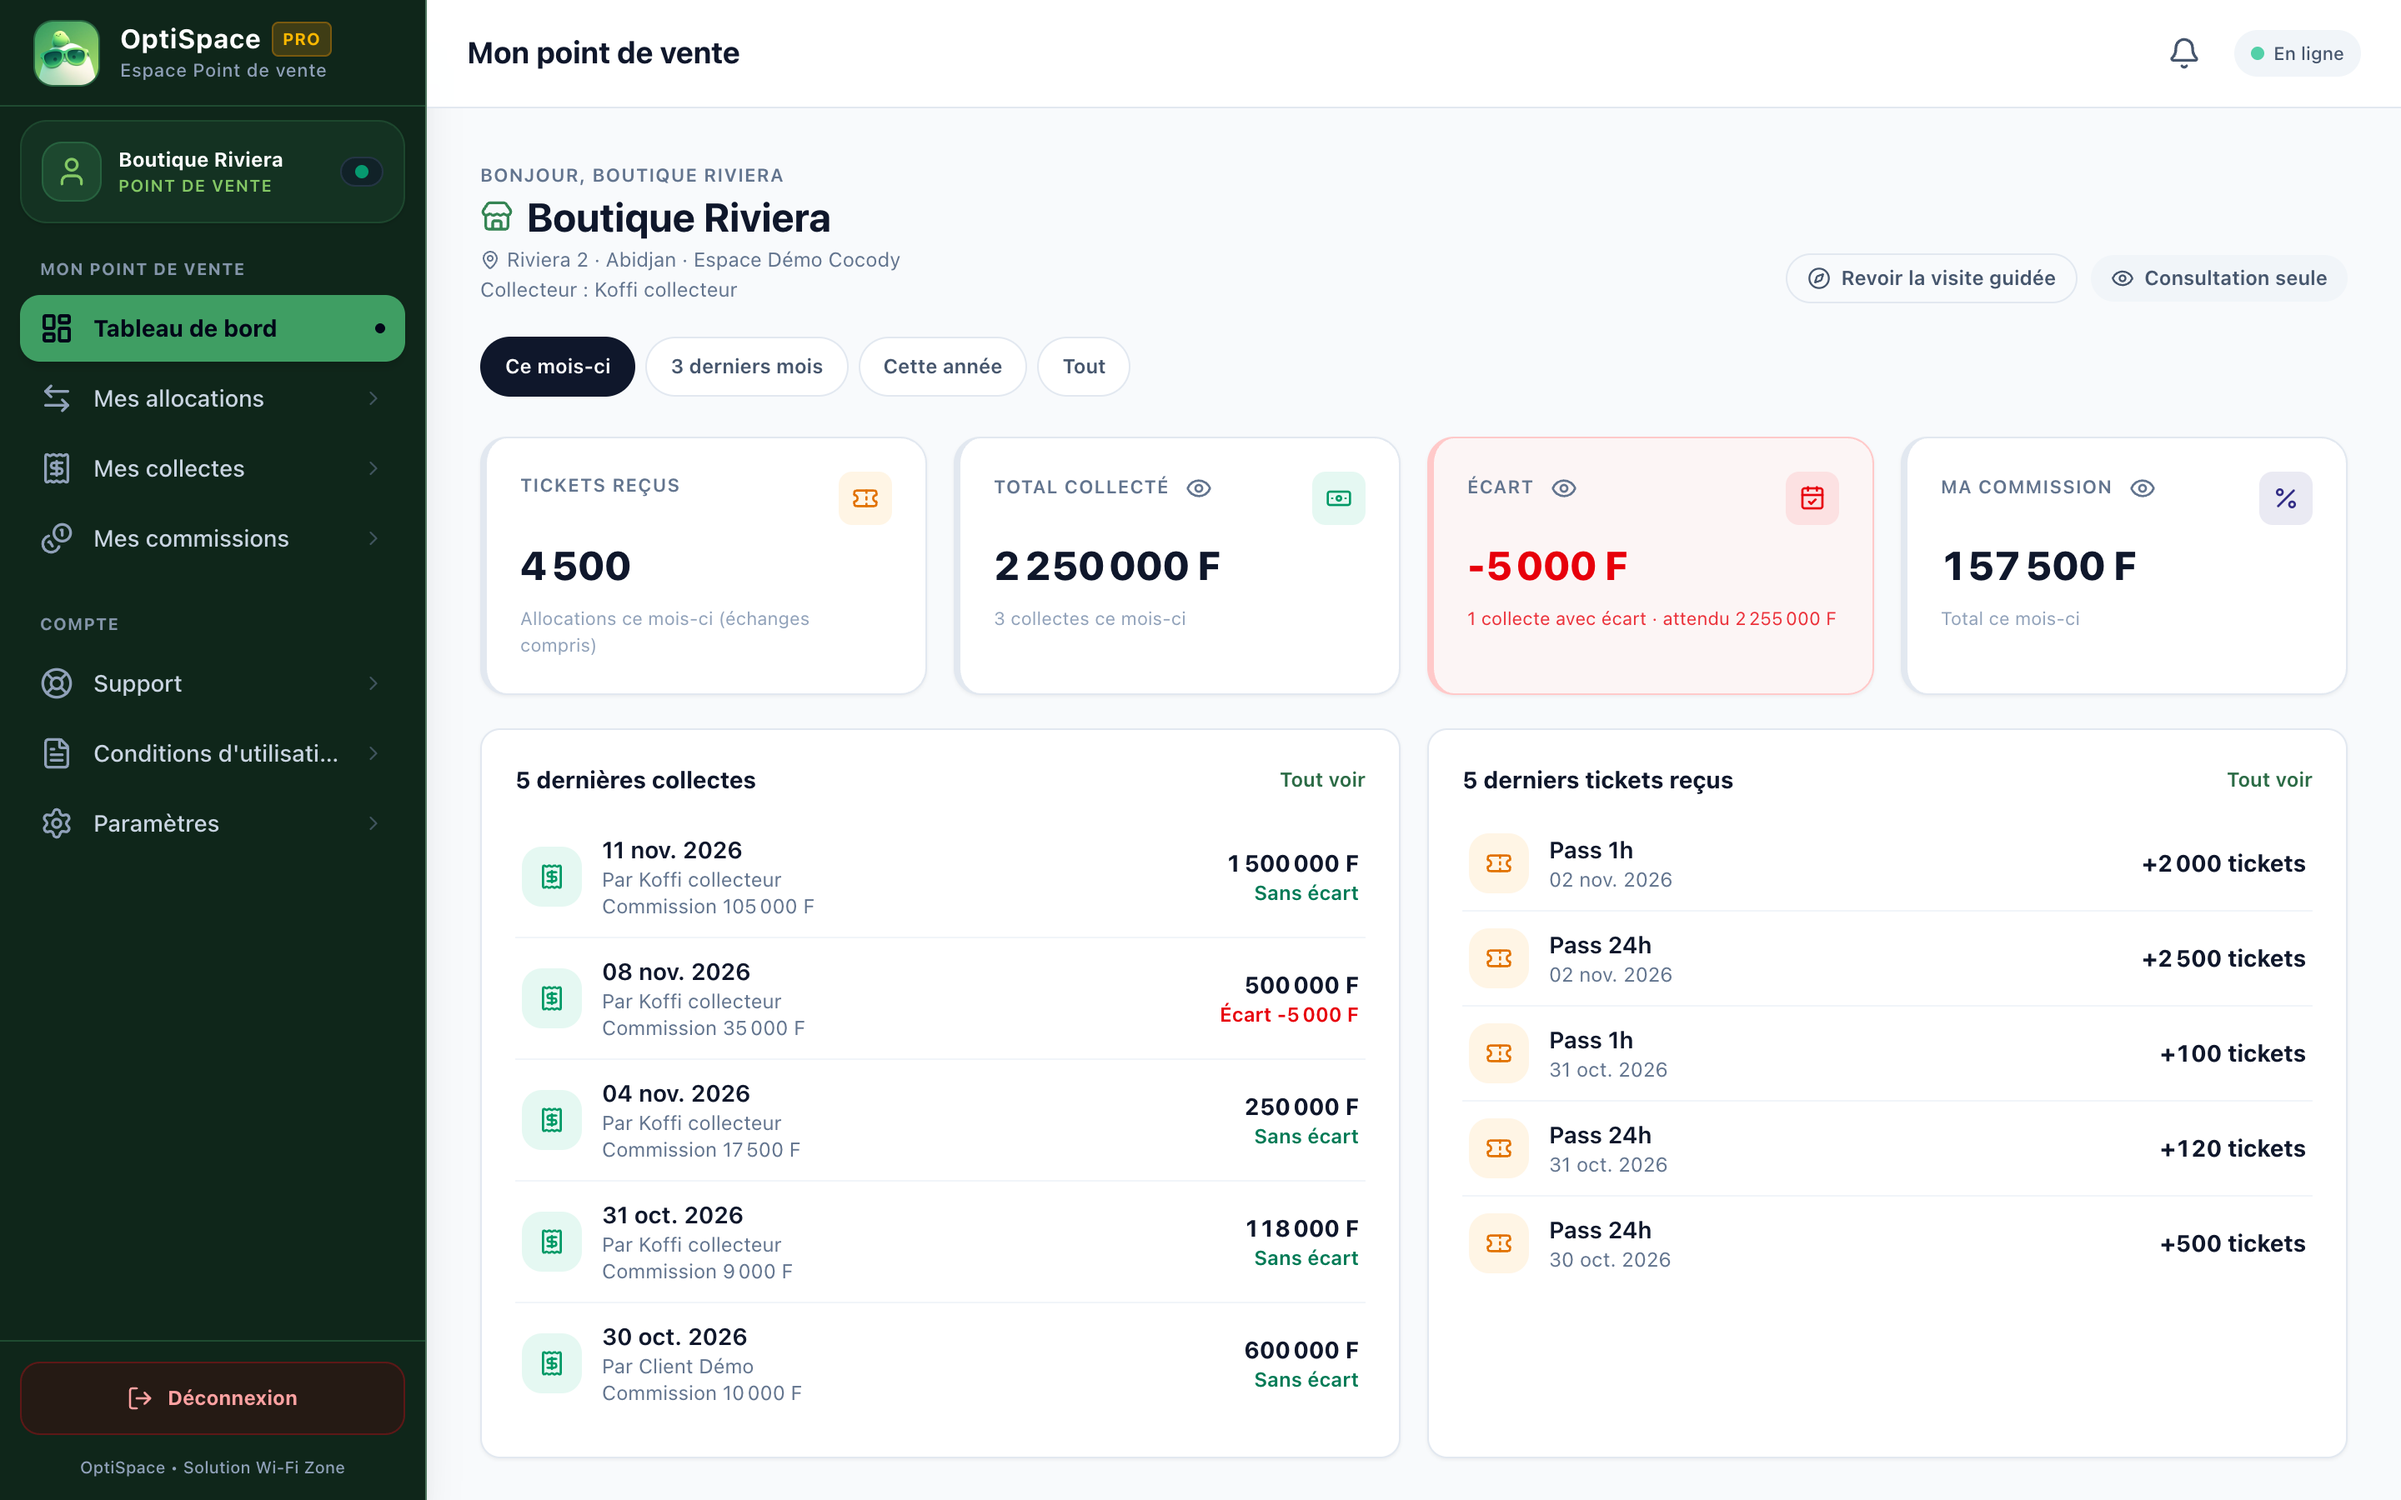
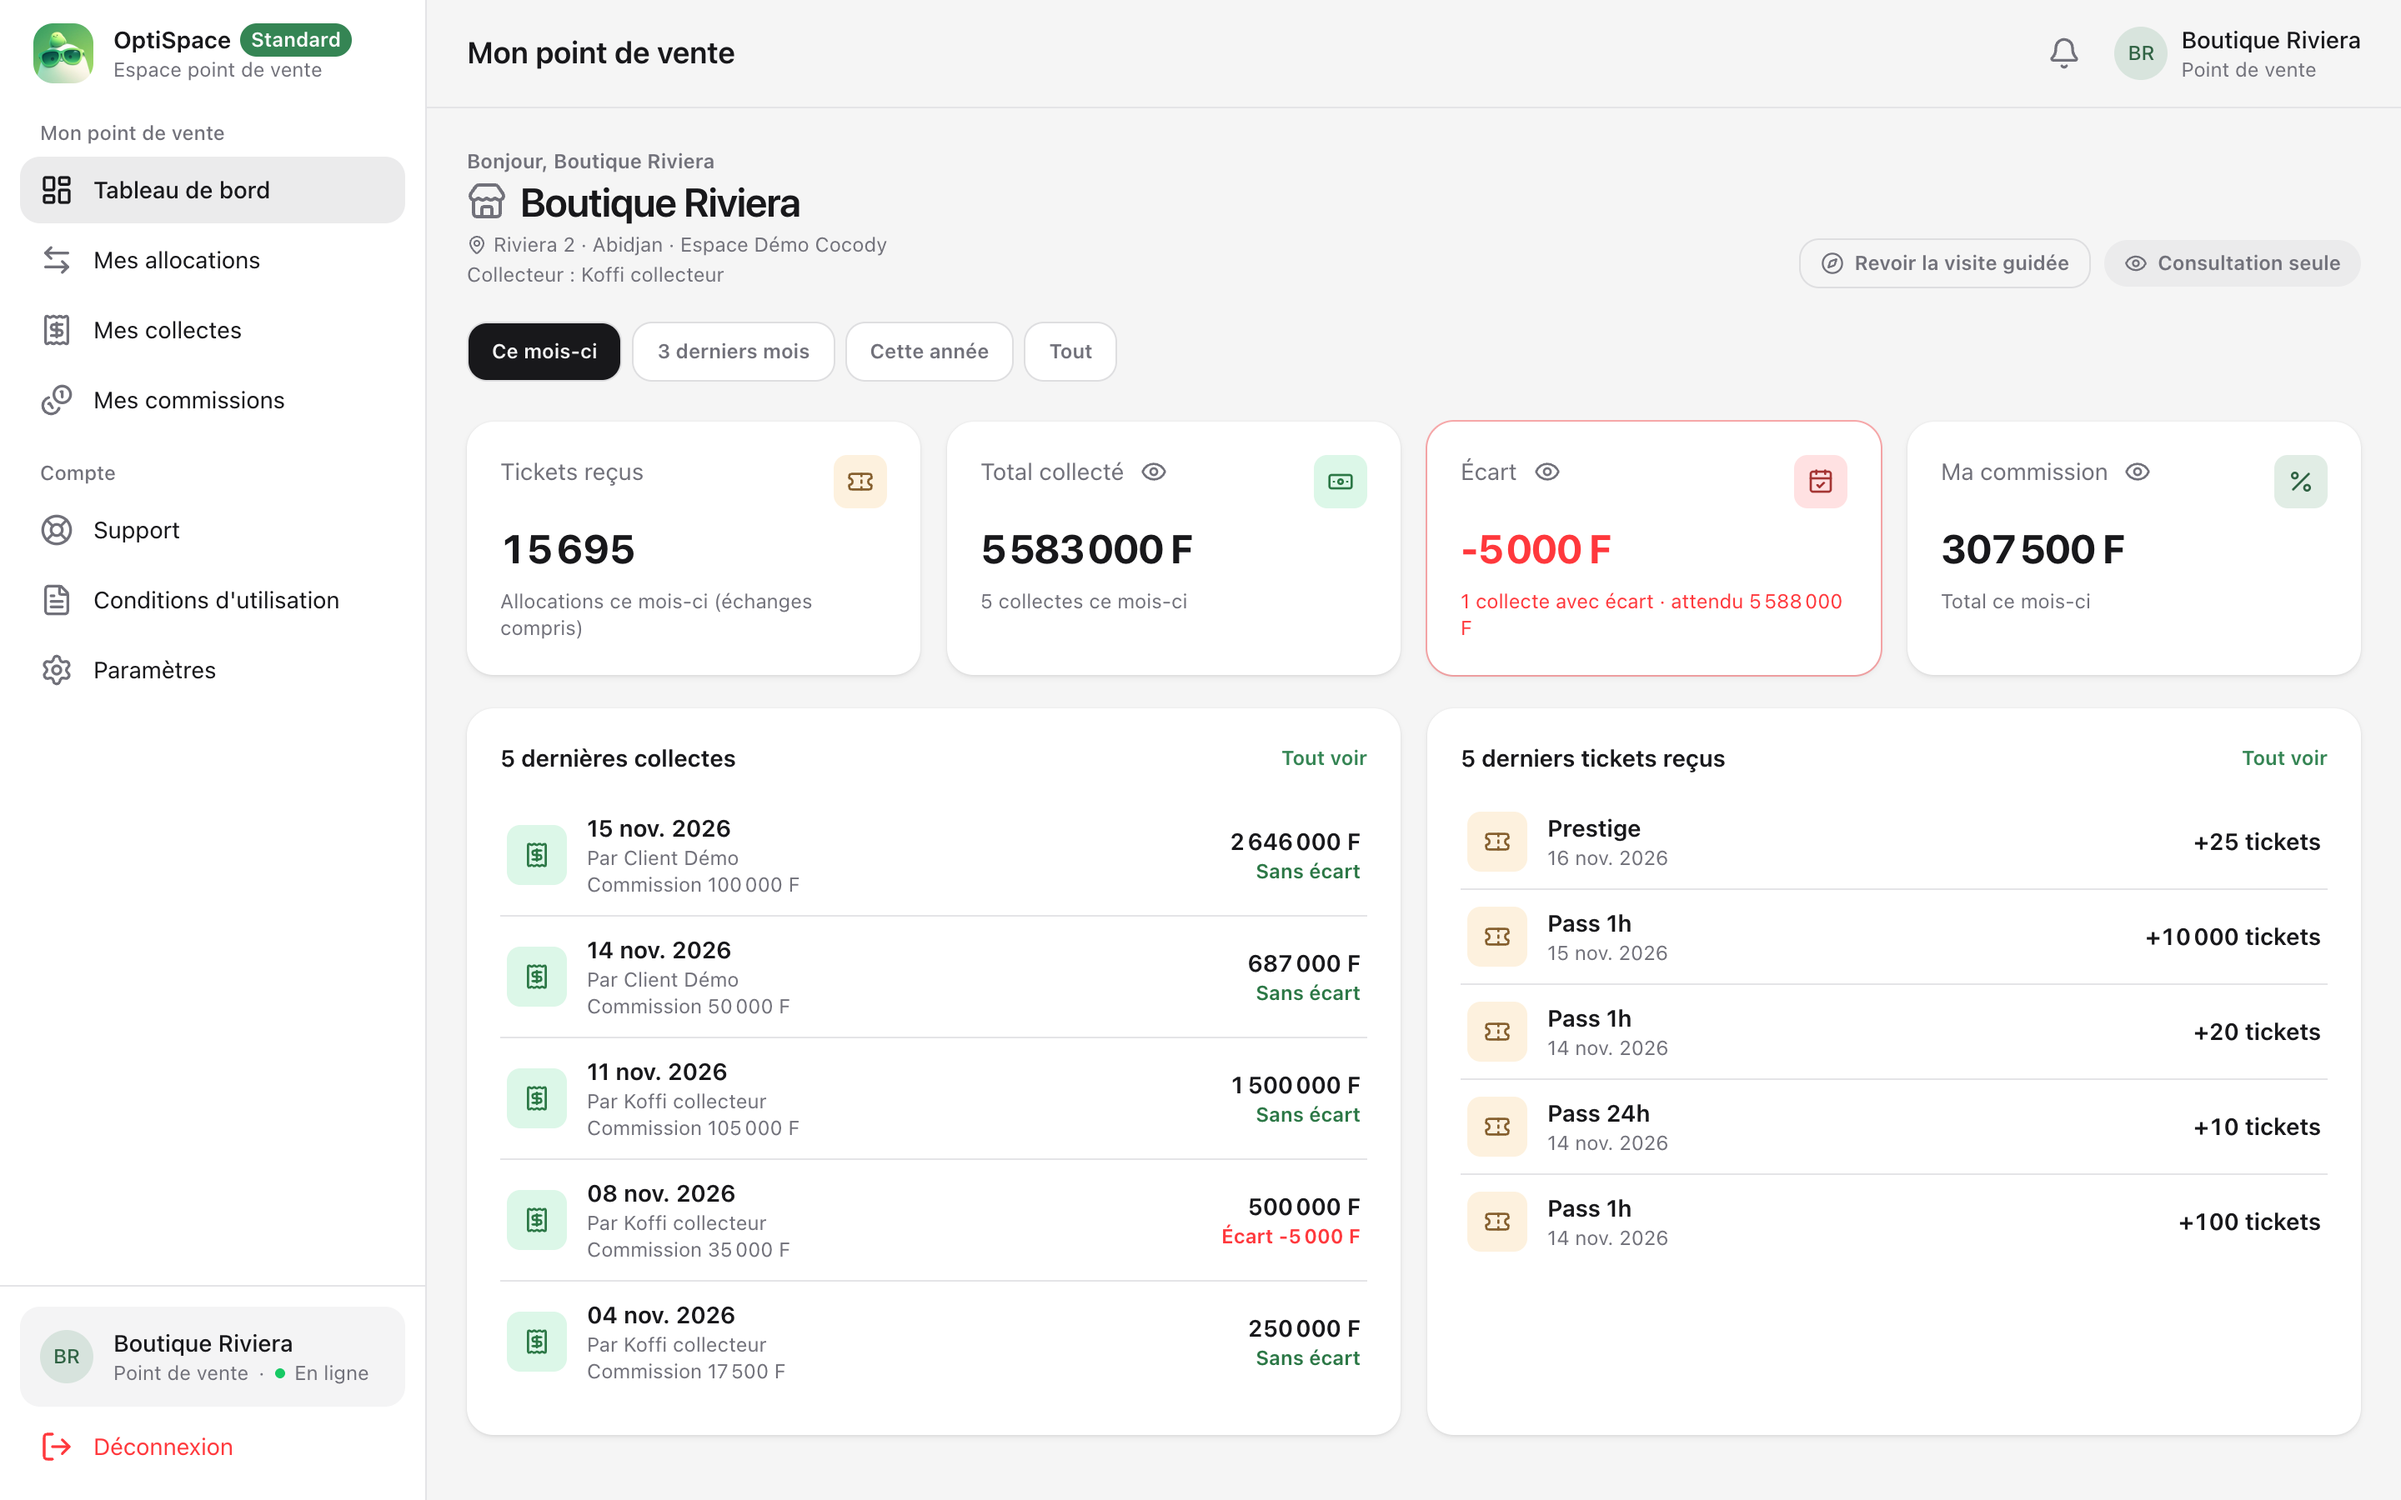
feat(landing): captures de l'outil avec la refonte HeroUI
Les 10 captures (administrateur, collecteur, point de vente ; ordinateur
et téléphone) reprennent le nouveau design de l'outil.

diff --git a/src/lib/screens.ts b/src/lib/screens.ts
@@ -3,6 +3,6 @@
  * le cache des images optimisées (navigateur, CDN Vercel) ne serve jamais une ancienne
  * capture. `npm run capture` la met à jour automatiquement.
  */
-export const SCREENS_VERSION = "20261114";
+export const SCREENS_VERSION = "202611161140";
 
 export const screen = (name: string) => `/screens/${name}.png?v=${SCREENS_VERSION}`;
